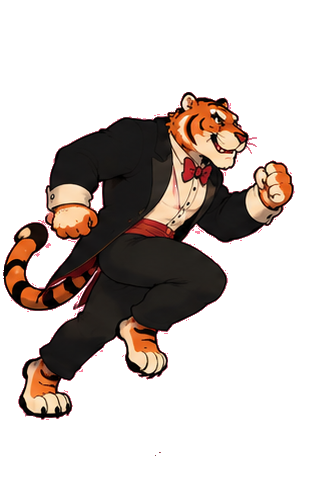
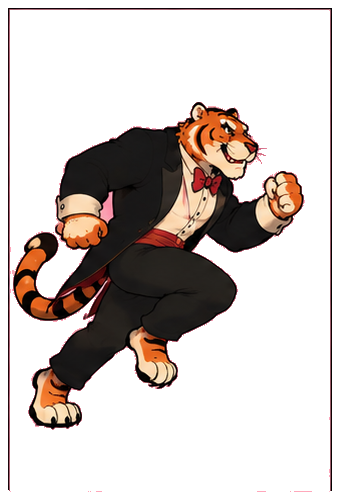
panic-petal: remove baked-in numbers from balthazar sheet 6, re-crop sweep full-width
- paint out digits 1-10 on balthazar_sheet_6.png (pink fill)
- re-crop sweep f1-f10 with full cell width (340x500), no inset
- rebuild viewer

diff --git a/.squid-os/sprite-gen/petal-panic.viewer.html b/.squid-os/sprite-gen/petal-panic.viewer.html
@@ -50,14 +50,14 @@
     </div>
     <div id="bgrow">
       <span>background</span>
-      <input type="color" id="bg" value="#fa93a8">
-      <span id="bgval">#fa93a8</span>
+      <input type="color" id="bg" value="#f992a8">
+      <span id="bgval">#f992a8</span>
     </div>
     <div id="hint">click an entity &middot; &#8593;/&#8595; next/prev animation &middot; &#8722;/&#43; speed &middot; space play/pause &middot; &#8592;/&#8594; step frame (paused)</div>
   </div>
 </div>
 <script>
-const MANIFEST = {"labels": [{"name": "boss", "entities": [{"name": "overgrown_elephant_charge_charge", "frames": ["../../panic-petal/assets/boss/overgrown_elephant_charge_f1.png", "../../panic-petal/assets/boss/overgrown_elephant_charge_f2.png", "../../panic-petal/assets/boss/overgrown_elephant_charge_f3.png", "../../panic-petal/assets/boss/overgrown_elephant_charge_f4.png", "../../panic-petal/assets/boss/overgrown_elephant_charge_f5.png"]}, {"name": "overgrown_elephant_death_death", "frames": ["../../panic-petal/assets/boss/overgrown_elephant_death_f1.png", "../../panic-petal/assets/boss/overgrown_elephant_death_f2.png", "../../panic-petal/assets/boss/overgrown_elephant_death_f3.png", "../../panic-petal/assets/boss/overgrown_elephant_death_f4.png", "../../panic-petal/assets/boss/overgrown_elephant_death_f5.png"]}, {"name": "overgrown_elephant_stomp_stomp", "frames": ["../../panic-petal/assets/boss/overgrown_elephant_stomp_f1.png", "../../panic-petal/assets/boss/overgrown_elephant_stomp_f2.png", "../../panic-petal/assets/boss/overgrown_elephant_stomp_f3.png", "../../panic-petal/assets/boss/overgrown_elephant_stomp_f4.png", "../../panic-petal/assets/boss/overgrown_elephant_stomp_f5.png"]}, {"name": "overgrown_elephant_trunk_blast_trunk_blast", "frames": ["../../panic-petal/assets/boss/overgrown_elephant_trunk_blast_f1.png", "../../panic-petal/assets/boss/overgrown_elephant_trunk_blast_f2.png", "../../panic-petal/assets/boss/overgrown_elephant_trunk_blast_f3.png", "../../panic-petal/assets/boss/overgrown_elephant_trunk_blast_f4.png", "../../panic-petal/assets/boss/overgrown_elephant_trunk_blast_f5.png"]}]}, {"name": "enemies", "entities": [{"name": "boris_loon_attack_attack", "frames": ["../../panic-petal/assets/enemies/boris_loon_attack_f1.png", "../../panic-petal/assets/enemies/boris_loon_attack_f2.png", "../../panic-petal/assets/enemies/boris_loon_attack_f3.png", "../../panic-petal/assets/enemies/boris_loon_attack_f4.png", "../../panic-petal/assets/enemies/boris_loon_attack_f5.png"]}, {"name": "boris_loon_baby_fly_1_fly_1", "frames": ["../../panic-petal/assets/enemies/boris_loon_baby_fly_1_f1.png", "../../panic-petal/assets/enemies/boris_loon_baby_fly_1_f2.png", "../../panic-petal/assets/enemies/boris_loon_baby_fly_1_f3.png", "../../panic-petal/assets/enemies/boris_loon_baby_fly_1_f4.png", "../../panic-petal/assets/enemies/boris_loon_baby_fly_1_f5.png"]}, {"name": "boris_loon_baby_fly_2_fly_2", "frames": ["../../panic-petal/assets/enemies/boris_loon_baby_fly_2_f1.png", "../../panic-petal/assets/enemies/boris_loon_baby_fly_2_f2.png", "../../panic-petal/assets/enemies/boris_loon_baby_fly_2_f3.png", "../../panic-petal/assets/enemies/boris_loon_baby_fly_2_f4.png", "../../panic-petal/assets/enemies/boris_loon_baby_fly_2_f5.png"]}, {"name": "boris_loon_baby_fly_3_fly_3", "frames": ["../../panic-petal/assets/enemies/boris_loon_baby_fly_3_f1.png", "../../panic-petal/assets/enemies/boris_loon_baby_fly_3_f2.png", "../../panic-petal/assets/enemies/boris_loon_baby_fly_3_f3.png", "../../panic-petal/assets/enemies/boris_loon_baby_fly_3_f4.png", "../../panic-petal/assets/enemies/boris_loon_baby_fly_3_f5.png"]}, {"name": "boris_loon_death_death", "frames": ["../../panic-petal/assets/enemies/boris_loon_death_f1.png", "../../panic-petal/assets/enemies/boris_loon_death_f2.png", "../../panic-petal/assets/enemies/boris_loon_death_f3.png", "../../panic-petal/assets/enemies/boris_loon_death_f4.png", "../../panic-petal/assets/enemies/boris_loon_death_f5.png"]}, {"name": "boris_loon_fly_fly", "frames": ["../../panic-petal/assets/enemies/boris_loon_fly_f1.png", "../../panic-petal/assets/enemies/boris_loon_fly_f2.png", "../../panic-petal/assets/enemies/boris_loon_fly_f3.png", "../../panic-petal/assets/enemies/boris_loon_fly_f4.png", "../../panic-petal/assets/enemies/boris_loon_fly_f5.png"]}, {"name": "jackolantern_explode_explode", "frames": ["../../panic-petal/assets/enemies/jackolantern_explode_f1.png", "../../panic-petal/assets/enemies/jackolantern_explode_f2.png", "../../panic-petal/assets/enemies/jackolantern_explode_f3.png", "../../panic-petal/assets/enemies/jackolantern_explode_f4.png", "../../panic-petal/assets/enemies/jackolantern_explode_f5.png"]}, {"name": "jackolantern_launch_launch", "frames": ["../../panic-petal/assets/enemies/jackolantern_launch_f1.png", "../../panic-petal/assets/enemies/jackolantern_launch_f2.png", "../../panic-petal/assets/enemies/jackolantern_launch_f3.png", "../../panic-petal/assets/enemies/jackolantern_launch_f4.png", "../../panic-petal/assets/enemies/jackolantern_launch_f5.png"]}, {"name": "jackolantern_roll_roll", "frames": ["../../panic-petal/assets/enemies/jackolantern_roll_f1.png", "../../panic-petal/assets/enemies/jackolantern_roll_f2.png", "../../panic-petal/assets/enemies/jackolantern_roll_f3.png", "../../panic-petal/assets/enemies/jackolantern_roll_f4.png", "../../panic-petal/assets/enemies/jackolantern_roll_f5.png"]}, {"name": "jester_death_death", "frames": ["../../panic-petal/assets/enemies/jester_death_f1.png", "../../panic-petal/assets/enemies/jester_death_f2.png", "../../panic-petal/assets/enemies/jester_death_f3.png", "../../panic-petal/assets/enemies/jester_death_f4.png", "../../panic-petal/assets/enemies/jester_death_f5.png"]}, {"name": "jester_idle_idle", "frames": ["../../panic-petal/assets/enemies/jester_idle_f1.png", "../../panic-petal/assets/enemies/jester_idle_f2.png", "../../panic-petal/assets/enemies/jester_idle_f3.png", "../../panic-petal/assets/enemies/jester_idle_f4.png", "../../panic-petal/assets/enemies/jester_idle_f5.png"]}, {"name": "jester_jump_jump", "frames": ["../../panic-petal/assets/enemies/jester_jump_f1.png", "../../panic-petal/assets/enemies/jester_jump_f2.png", "../../panic-petal/assets/enemies/jester_jump_f3.png", "../../panic-petal/assets/enemies/jester_jump_f4.png", "../../panic-petal/assets/enemies/jester_jump_f5.png"]}, {"name": "jester_run_run", "frames": ["../../panic-petal/assets/enemies/jester_run_f1.png", "../../panic-petal/assets/enemies/jester_run_f2.png", "../../panic-petal/assets/enemies/jester_run_f3.png", "../../panic-petal/assets/enemies/jester_run_f4.png", "../../panic-petal/assets/enemies/jester_run_f5.png"]}, {"name": "jester_whip_whip", "frames": ["../../panic-petal/assets/enemies/jester_whip_f1.png", "../../panic-petal/assets/enemies/jester_whip_f2.png", "../../panic-petal/assets/enemies/jester_whip_f3.png", "../../panic-petal/assets/enemies/jester_whip_f4.png", "../../panic-petal/assets/enemies/jester_whip_f5.png"]}, {"name": "vine_hound_attack_attack", "frames": ["../../panic-petal/assets/enemies/vine_hound_attack_f1.png", "../../panic-petal/assets/enemies/vine_hound_attack_f2.png", "../../panic-petal/assets/enemies/vine_hound_attack_f3.png", "../../panic-petal/assets/enemies/vine_hound_attack_f4.png", "../../panic-petal/assets/enemies/vine_hound_attack_f5.png"]}, {"name": "vine_hound_death_death", "frames": ["../../panic-petal/assets/enemies/vine_hound_death_f1.png", "../../panic-petal/assets/enemies/vine_hound_death_f2.png", "../../panic-petal/assets/enemies/vine_hound_death_f3.png", "../../panic-petal/assets/enemies/vine_hound_death_f4.png", "../../panic-petal/assets/enemies/vine_hound_death_f5.png"]}, {"name": "vine_hound_run_run", "frames": ["../../panic-petal/assets/enemies/vine_hound_run_f1.png", "../../panic-petal/assets/enemies/vine_hound_run_f2.png", "../../panic-petal/assets/enemies/vine_hound_run_f3.png", "../../panic-petal/assets/enemies/vine_hound_run_f4.png", "../../panic-petal/assets/enemies/vine_hound_run_f5.png"]}, {"name": "violetta_marionetta_attack_attack", "frames": ["../../panic-petal/assets/enemies/violetta_marionetta_attack_f1.png", "../../panic-petal/assets/enemies/violetta_marionetta_attack_f2.png", "../../panic-petal/assets/enemies/violetta_marionetta_attack_f3.png", "../../panic-petal/assets/enemies/violetta_marionetta_attack_f4.png", "../../panic-petal/assets/enemies/violetta_marionetta_attack_f5.png"]}, {"name": "violetta_marionetta_death_death", "frames": ["../../panic-petal/assets/enemies/violetta_marionetta_death_f1.png", "../../panic-petal/assets/enemies/violetta_marionetta_death_f2.png", "../../panic-petal/assets/enemies/violetta_marionetta_death_f3.png", "../../panic-petal/assets/enemies/violetta_marionetta_death_f4.png", "../../panic-petal/assets/enemies/violetta_marionetta_death_f5.png"]}, {"name": "violetta_marionetta_walk_walk", "frames": ["../../panic-petal/assets/enemies/violetta_marionetta_walk_f1.png", "../../panic-petal/assets/enemies/violetta_marionetta_walk_f2.png", "../../panic-petal/assets/enemies/violetta_marionetta_walk_f3.png", "../../panic-petal/assets/enemies/violetta_marionetta_walk_f4.png", "../../panic-petal/assets/enemies/violetta_marionetta_walk_f5.png"]}]}, {"name": "heroes", "entities": [{"name": "balthazar_attack_attack", "frames": ["../../panic-petal/assets/heroes/balthazar_attack_f1.png", "../../panic-petal/assets/heroes/balthazar_attack_f2.png", "../../panic-petal/assets/heroes/balthazar_attack_f3.png", "../../panic-petal/assets/heroes/balthazar_attack_f4.png", "../../panic-petal/assets/heroes/balthazar_attack_f5.png"]}, {"name": "balthazar_crouch", "frames": ["../../panic-petal/assets/heroes/balthazar_crouch_f1.png", "../../panic-petal/assets/heroes/balthazar_crouch_f2.png", "../../panic-petal/assets/heroes/balthazar_crouch_f3.png", "../../panic-petal/assets/heroes/balthazar_crouch_f4.png", "../../panic-petal/assets/heroes/balthazar_crouch_f5.png", "../../panic-petal/assets/heroes/balthazar_crouch_f6.png", "../../panic-petal/assets/heroes/balthazar_crouch_f7.png", "../../panic-petal/assets/heroes/balthazar_crouch_f8.png"]}, {"name": "balthazar_djump", "frames": ["../../panic-petal/assets/heroes/balthazar_djump_f1.png", "../../panic-petal/assets/heroes/balthazar_djump_f2.png", "../../panic-petal/assets/heroes/balthazar_djump_f3.png", "../../panic-petal/assets/heroes/balthazar_djump_f4.png", "../../panic-petal/assets/heroes/balthazar_djump_f5.png", "../../panic-petal/assets/heroes/balthazar_djump_f6.png", "../../panic-petal/assets/heroes/balthazar_djump_f7.png", "../../panic-petal/assets/heroes/balthazar_djump_f8.png"]}, {"name": "balthazar_idle", "frames": ["../../panic-petal/assets/heroes/balthazar_idle_f1.png", "../../panic-petal/assets/heroes/balthazar_idle_f2.png", "../../panic-petal/assets/heroes/balthazar_idle_f3.png", "../../panic-petal/assets/heroes/balthazar_idle_f4.png", "../../panic-petal/assets/heroes/balthazar_idle_f5.png", "../../panic-petal/assets/heroes/balthazar_idle_f6.png", "../../panic-petal/assets/heroes/balthazar_idle_f7.png", "../../panic-petal/assets/heroes/balthazar_idle_f8.png"]}, {"name": "balthazar_jump_jump", "frames": ["../../panic-petal/assets/heroes/balthazar_jump_f1.png", "../../panic-petal/assets/heroes/balthazar_jump_f2.png", "../../panic-petal/assets/heroes/balthazar_jump_f3.png", "../../panic-petal/assets/heroes/balthazar_jump_f4.png", "../../panic-petal/assets/heroes/balthazar_jump_f5.png"]}, {"name": "balthazar_run2", "frames": ["../../panic-petal/assets/heroes/balthazar_run2_f1.png", "../../panic-petal/assets/heroes/balthazar_run2_f2.png", "../../panic-petal/assets/heroes/balthazar_run2_f3.png", "../../panic-petal/assets/heroes/balthazar_run2_f4.png", "../../panic-petal/assets/heroes/balthazar_run2_f5.png", "../../panic-petal/assets/heroes/balthazar_run2_f6.png", "../../panic-petal/assets/heroes/balthazar_run2_f7.png", "../../panic-petal/assets/heroes/balthazar_run2_f8.png"]}, {"name": "balthazar_run_run", "frames": ["../../panic-petal/assets/heroes/balthazar_run_f1.png", "../../panic-petal/assets/heroes/balthazar_run_f2.png", "../../panic-petal/assets/heroes/balthazar_run_f3.png", "../../panic-petal/assets/heroes/balthazar_run_f4.png", "../../panic-petal/assets/heroes/balthazar_run_f5.png"]}, {"name": "scarlet_vale_attack_attack", "frames": ["../../panic-petal/assets/heroes/scarlet_vale_attack_f1.png", "../../panic-petal/assets/heroes/scarlet_vale_attack_f2.png", "../../panic-petal/assets/heroes/scarlet_vale_attack_f3.png", "../../panic-petal/assets/heroes/scarlet_vale_attack_f4.png", "../../panic-petal/assets/heroes/scarlet_vale_attack_f5.png"]}, {"name": "scarlet_vale_crouch", "frames": ["../../panic-petal/assets/heroes/scarlet_vale_crouch_f1.png", "../../panic-petal/assets/heroes/scarlet_vale_crouch_f2.png", "../../panic-petal/assets/heroes/scarlet_vale_crouch_f3.png", "../../panic-petal/assets/heroes/scarlet_vale_crouch_f4.png", "../../panic-petal/assets/heroes/scarlet_vale_crouch_f5.png", "../../panic-petal/assets/heroes/scarlet_vale_crouch_f6.png", "../../panic-petal/assets/heroes/scarlet_vale_crouch_f7.png", "../../panic-petal/assets/heroes/scarlet_vale_crouch_f8.png"]}, {"name": "scarlet_vale_idle", "frames": ["../../panic-petal/assets/heroes/scarlet_vale_idle_f1.png", "../../panic-petal/assets/heroes/scarlet_vale_idle_f2.png", "../../panic-petal/assets/heroes/scarlet_vale_idle_f3.png", "../../panic-petal/assets/heroes/scarlet_vale_idle_f4.png", "../../panic-petal/assets/heroes/scarlet_vale_idle_f5.png", "../../panic-petal/assets/heroes/scarlet_vale_idle_f6.png", "../../panic-petal/assets/heroes/scarlet_vale_idle_f7.png", "../../panic-petal/assets/heroes/scarlet_vale_idle_f8.png"]}, {"name": "scarlet_vale_jump_jump", "frames": ["../../panic-petal/assets/heroes/scarlet_vale_jump_f1.png", "../../panic-petal/assets/heroes/scarlet_vale_jump_f2.png", "../../panic-petal/assets/heroes/scarlet_vale_jump_f3.png", "../../panic-petal/assets/heroes/scarlet_vale_jump_f4.png", "../../panic-petal/assets/heroes/scarlet_vale_jump_f5.png"]}, {"name": "scarlet_vale_run_run", "frames": ["../../panic-petal/assets/heroes/scarlet_vale_run_f1.png", "../../panic-petal/assets/heroes/scarlet_vale_run_f2.png", "../../panic-petal/assets/heroes/scarlet_vale_run_f3.png", "../../panic-petal/assets/heroes/scarlet_vale_run_f4.png", "../../panic-petal/assets/heroes/scarlet_vale_run_f5.png"]}]}, {"name": "home", "entities": [{"name": "home_bigtop_idle", "frames": ["../../panic-petal/assets/home/home_bigtop_f1.png"]}, {"name": "home_cover_idle_idle", "frames": ["../../panic-petal/assets/home/home_cover_idle_f1.png"]}, {"name": "home_crowd_idle", "frames": ["../../panic-petal/assets/home/home_crowd_f1.png"]}, {"name": "home_scarlet_portrait_idle", "frames": ["../../panic-petal/assets/home/home_scarlet_portrait_f1.png"]}, {"name": "home_stage_idle", "frames": ["../../panic-petal/assets/home/home_stage_f1.png"]}, {"name": "squid_os_logo_idle", "frames": ["../../panic-petal/assets/home/squid_os_logo_f1.png"]}]}, {"name": "interface", "entities": [{"name": "bg_level1_foreground_idle", "frames": ["../../panic-petal/assets/interface/bg_level1_foreground.png"]}, {"name": "bg_level1_tent_idle", "frames": ["../../panic-petal/assets/interface/bg_level1_tent.png"]}, {"name": "logo_idle", "frames": ["../../panic-petal/assets/interface/logo_f1.png"]}, {"name": "select_balthazar_idle", "frames": ["../../panic-petal/assets/interface/select_balthazar_f1.png"]}, {"name": "select_none_idle", "frames": ["../../panic-petal/assets/interface/select_none_f1.png"]}, {"name": "select_scarlet_vale_idle", "frames": ["../../panic-petal/assets/interface/select_scarlet_vale_f1.png"]}]}, {"name": "objects", "entities": [{"name": "barrel_bomb_idle", "frames": ["../../panic-petal/assets/objects/barrel_bomb.png"]}, {"name": "barrel_coin_idle", "frames": ["../../panic-petal/assets/objects/barrel_coin.png"]}, {"name": "barrel_idle", "frames": ["../../panic-petal/assets/objects/barrel.png"]}, {"name": "checkpoint_idle", "frames": ["../../panic-petal/assets/objects/checkpoint.png"]}, {"name": "coin_bronze_flip", "frames": ["../../panic-petal/assets/objects/coin_bronze_f1.png", "../../panic-petal/assets/objects/coin_bronze_f2.png", "../../panic-petal/assets/objects/coin_bronze_f3.png", "../../panic-petal/assets/objects/coin_bronze_f4.png"]}, {"name": "coin_gold_flip_3", "frames": ["../../panic-petal/assets/objects/coin_gold_f1.png", "../../panic-petal/assets/objects/coin_gold_f2.png", "../../panic-petal/assets/objects/coin_gold_f3.png", "../../panic-petal/assets/objects/coin_gold_f4.png"]}, {"name": "coin_silver_flip_2", "frames": ["../../panic-petal/assets/objects/coin_silver_f1.png", "../../panic-petal/assets/objects/coin_silver_f2.png", "../../panic-petal/assets/objects/coin_silver_f3.png", "../../panic-petal/assets/objects/coin_silver_f4.png"]}]}, {"name": "powerups", "entities": [{"name": "balthazar_1up_idle", "frames": ["../../panic-petal/assets/powerups/balthazar_1up_f1.png", "../../panic-petal/assets/powerups/balthazar_1up_f2.png", "../../panic-petal/assets/powerups/balthazar_1up_f3.png", "../../panic-petal/assets/powerups/balthazar_1up_f4.png"]}, {"name": "bomb_idle", "frames": ["../../panic-petal/assets/powerups/bomb_f1.png", "../../panic-petal/assets/powerups/bomb_f2.png", "../../panic-petal/assets/powerups/bomb_f3.png", "../../panic-petal/assets/powerups/bomb_f4.png"]}, {"name": "energy_idle", "frames": ["../../panic-petal/assets/powerups/energy_f1.png", "../../panic-petal/assets/powerups/energy_f2.png", "../../panic-petal/assets/powerups/energy_f3.png", "../../panic-petal/assets/powerups/energy_f4.png"]}, {"name": "invincibility_idle", "frames": ["../../panic-petal/assets/powerups/invincibility_f1.png", "../../panic-petal/assets/powerups/invincibility_f2.png", "../../panic-petal/assets/powerups/invincibility_f3.png", "../../panic-petal/assets/powerups/invincibility_f4.png"]}, {"name": "panic_clear_idle", "frames": ["../../panic-petal/assets/powerups/panic_clear_f1.png", "../../panic-petal/assets/powerups/panic_clear_f2.png", "../../panic-petal/assets/powerups/panic_clear_f3.png", "../../panic-petal/assets/powerups/panic_clear_f4.png"]}, {"name": "petal_saw_idle", "frames": ["../../panic-petal/assets/powerups/petal_saw_f1.png", "../../panic-petal/assets/powerups/petal_saw_f2.png", "../../panic-petal/assets/powerups/petal_saw_f3.png", "../../panic-petal/assets/powerups/petal_saw_f4.png"]}, {"name": "rapid_fire_idle", "frames": ["../../panic-petal/assets/powerups/rapid_fire_f1.png", "../../panic-petal/assets/powerups/rapid_fire_f2.png", "../../panic-petal/assets/powerups/rapid_fire_f3.png", "../../panic-petal/assets/powerups/rapid_fire_f4.png"]}, {"name": "scarlet_1up_idle", "frames": ["../../panic-petal/assets/powerups/scarlet_1up_f1.png", "../../panic-petal/assets/powerups/scarlet_1up_f2.png", "../../panic-petal/assets/powerups/scarlet_1up_f3.png", "../../panic-petal/assets/powerups/scarlet_1up_f4.png"]}, {"name": "shield_idle", "frames": ["../../panic-petal/assets/powerups/shield_f1.png", "../../panic-petal/assets/powerups/shield_f2.png", "../../panic-petal/assets/powerups/shield_f3.png", "../../panic-petal/assets/powerups/shield_f4.png"]}, {"name": "thorn_missile_idle", "frames": ["../../panic-petal/assets/powerups/thorn_missile_f1.png", "../../panic-petal/assets/powerups/thorn_missile_f2.png", "../../panic-petal/assets/powerups/thorn_missile_f3.png", "../../panic-petal/assets/powerups/thorn_missile_f4.png"]}]}, {"name": "projectiles", "entities": [{"name": "bomb_shoot", "frames": ["../../panic-petal/assets/projectiles/bomb_shoot_f1.png", "../../panic-petal/assets/projectiles/bomb_shoot_f2.png", "../../panic-petal/assets/projectiles/bomb_shoot_f3.png", "../../panic-petal/assets/projectiles/bomb_shoot_f4.png"]}, {"name": "boom_explose", "frames": ["../../panic-petal/assets/projectiles/boom_explose_f1.png", "../../panic-petal/assets/projectiles/boom_explose_f2.png", "../../panic-petal/assets/projectiles/boom_explose_f3.png", "../../panic-petal/assets/projectiles/boom_explose_f4.png"]}, {"name": "saw_shoot", "frames": ["../../panic-petal/assets/projectiles/saw_shoot_f1.png", "../../panic-petal/assets/projectiles/saw_shoot_f2.png", "../../panic-petal/assets/projectiles/saw_shoot_f3.png", "../../panic-petal/assets/projectiles/saw_shoot_f4.png", "../../panic-petal/assets/projectiles/saw_shoot_f5.png", "../../panic-petal/assets/projectiles/saw_shoot_f6.png", "../../panic-petal/assets/projectiles/saw_shoot_f7.png", "../../panic-petal/assets/projectiles/saw_shoot_f8.png"]}, {"name": "thorn_shoot", "frames": ["../../panic-petal/assets/projectiles/thorn_shoot_f1.png", "../../panic-petal/assets/projectiles/thorn_shoot_f2.png", "../../panic-petal/assets/projectiles/thorn_shoot_f3.png", "../../panic-petal/assets/projectiles/thorn_shoot_f4.png", "../../panic-petal/assets/projectiles/thorn_shoot_f5.png", "../../panic-petal/assets/projectiles/thorn_shoot_f6.png", "../../panic-petal/assets/projectiles/thorn_shoot_f7.png", "../../panic-petal/assets/projectiles/thorn_shoot_f8.png"]}]}]};   // {labels:[{name, entities:[{name, frames:["path",...]}]}], bg:"#hex"}
+const MANIFEST = {"labels": [{"name": "boss", "entities": [{"name": "overgrown_elephant_charge_charge", "frames": ["../../panic-petal/assets/boss/overgrown_elephant_charge_f1.png", "../../panic-petal/assets/boss/overgrown_elephant_charge_f2.png", "../../panic-petal/assets/boss/overgrown_elephant_charge_f3.png", "../../panic-petal/assets/boss/overgrown_elephant_charge_f4.png", "../../panic-petal/assets/boss/overgrown_elephant_charge_f5.png"]}, {"name": "overgrown_elephant_death_death", "frames": ["../../panic-petal/assets/boss/overgrown_elephant_death_f1.png", "../../panic-petal/assets/boss/overgrown_elephant_death_f2.png", "../../panic-petal/assets/boss/overgrown_elephant_death_f3.png", "../../panic-petal/assets/boss/overgrown_elephant_death_f4.png", "../../panic-petal/assets/boss/overgrown_elephant_death_f5.png"]}, {"name": "overgrown_elephant_stomp_stomp", "frames": ["../../panic-petal/assets/boss/overgrown_elephant_stomp_f1.png", "../../panic-petal/assets/boss/overgrown_elephant_stomp_f2.png", "../../panic-petal/assets/boss/overgrown_elephant_stomp_f3.png", "../../panic-petal/assets/boss/overgrown_elephant_stomp_f4.png", "../../panic-petal/assets/boss/overgrown_elephant_stomp_f5.png"]}, {"name": "overgrown_elephant_trunk_blast_trunk_blast", "frames": ["../../panic-petal/assets/boss/overgrown_elephant_trunk_blast_f1.png", "../../panic-petal/assets/boss/overgrown_elephant_trunk_blast_f2.png", "../../panic-petal/assets/boss/overgrown_elephant_trunk_blast_f3.png", "../../panic-petal/assets/boss/overgrown_elephant_trunk_blast_f4.png", "../../panic-petal/assets/boss/overgrown_elephant_trunk_blast_f5.png"]}]}, {"name": "enemies", "entities": [{"name": "boris_loon_attack_attack", "frames": ["../../panic-petal/assets/enemies/boris_loon_attack_f1.png", "../../panic-petal/assets/enemies/boris_loon_attack_f2.png", "../../panic-petal/assets/enemies/boris_loon_attack_f3.png", "../../panic-petal/assets/enemies/boris_loon_attack_f4.png", "../../panic-petal/assets/enemies/boris_loon_attack_f5.png"]}, {"name": "boris_loon_baby_fly_1_fly_1", "frames": ["../../panic-petal/assets/enemies/boris_loon_baby_fly_1_f1.png", "../../panic-petal/assets/enemies/boris_loon_baby_fly_1_f2.png", "../../panic-petal/assets/enemies/boris_loon_baby_fly_1_f3.png", "../../panic-petal/assets/enemies/boris_loon_baby_fly_1_f4.png", "../../panic-petal/assets/enemies/boris_loon_baby_fly_1_f5.png"]}, {"name": "boris_loon_baby_fly_2_fly_2", "frames": ["../../panic-petal/assets/enemies/boris_loon_baby_fly_2_f1.png", "../../panic-petal/assets/enemies/boris_loon_baby_fly_2_f2.png", "../../panic-petal/assets/enemies/boris_loon_baby_fly_2_f3.png", "../../panic-petal/assets/enemies/boris_loon_baby_fly_2_f4.png", "../../panic-petal/assets/enemies/boris_loon_baby_fly_2_f5.png"]}, {"name": "boris_loon_baby_fly_3_fly_3", "frames": ["../../panic-petal/assets/enemies/boris_loon_baby_fly_3_f1.png", "../../panic-petal/assets/enemies/boris_loon_baby_fly_3_f2.png", "../../panic-petal/assets/enemies/boris_loon_baby_fly_3_f3.png", "../../panic-petal/assets/enemies/boris_loon_baby_fly_3_f4.png", "../../panic-petal/assets/enemies/boris_loon_baby_fly_3_f5.png"]}, {"name": "boris_loon_death_death", "frames": ["../../panic-petal/assets/enemies/boris_loon_death_f1.png", "../../panic-petal/assets/enemies/boris_loon_death_f2.png", "../../panic-petal/assets/enemies/boris_loon_death_f3.png", "../../panic-petal/assets/enemies/boris_loon_death_f4.png", "../../panic-petal/assets/enemies/boris_loon_death_f5.png"]}, {"name": "boris_loon_fly_fly", "frames": ["../../panic-petal/assets/enemies/boris_loon_fly_f1.png", "../../panic-petal/assets/enemies/boris_loon_fly_f2.png", "../../panic-petal/assets/enemies/boris_loon_fly_f3.png", "../../panic-petal/assets/enemies/boris_loon_fly_f4.png", "../../panic-petal/assets/enemies/boris_loon_fly_f5.png"]}, {"name": "jackolantern_explode_explode", "frames": ["../../panic-petal/assets/enemies/jackolantern_explode_f1.png", "../../panic-petal/assets/enemies/jackolantern_explode_f2.png", "../../panic-petal/assets/enemies/jackolantern_explode_f3.png", "../../panic-petal/assets/enemies/jackolantern_explode_f4.png", "../../panic-petal/assets/enemies/jackolantern_explode_f5.png"]}, {"name": "jackolantern_launch_launch", "frames": ["../../panic-petal/assets/enemies/jackolantern_launch_f1.png", "../../panic-petal/assets/enemies/jackolantern_launch_f2.png", "../../panic-petal/assets/enemies/jackolantern_launch_f3.png", "../../panic-petal/assets/enemies/jackolantern_launch_f4.png", "../../panic-petal/assets/enemies/jackolantern_launch_f5.png"]}, {"name": "jackolantern_roll_roll", "frames": ["../../panic-petal/assets/enemies/jackolantern_roll_f1.png", "../../panic-petal/assets/enemies/jackolantern_roll_f2.png", "../../panic-petal/assets/enemies/jackolantern_roll_f3.png", "../../panic-petal/assets/enemies/jackolantern_roll_f4.png", "../../panic-petal/assets/enemies/jackolantern_roll_f5.png"]}, {"name": "jester_death_death", "frames": ["../../panic-petal/assets/enemies/jester_death_f1.png", "../../panic-petal/assets/enemies/jester_death_f2.png", "../../panic-petal/assets/enemies/jester_death_f3.png", "../../panic-petal/assets/enemies/jester_death_f4.png", "../../panic-petal/assets/enemies/jester_death_f5.png"]}, {"name": "jester_idle_idle", "frames": ["../../panic-petal/assets/enemies/jester_idle_f1.png", "../../panic-petal/assets/enemies/jester_idle_f2.png", "../../panic-petal/assets/enemies/jester_idle_f3.png", "../../panic-petal/assets/enemies/jester_idle_f4.png", "../../panic-petal/assets/enemies/jester_idle_f5.png"]}, {"name": "jester_jump_jump", "frames": ["../../panic-petal/assets/enemies/jester_jump_f1.png", "../../panic-petal/assets/enemies/jester_jump_f2.png", "../../panic-petal/assets/enemies/jester_jump_f3.png", "../../panic-petal/assets/enemies/jester_jump_f4.png", "../../panic-petal/assets/enemies/jester_jump_f5.png"]}, {"name": "jester_run_run", "frames": ["../../panic-petal/assets/enemies/jester_run_f1.png", "../../panic-petal/assets/enemies/jester_run_f2.png", "../../panic-petal/assets/enemies/jester_run_f3.png", "../../panic-petal/assets/enemies/jester_run_f4.png", "../../panic-petal/assets/enemies/jester_run_f5.png"]}, {"name": "jester_whip_whip", "frames": ["../../panic-petal/assets/enemies/jester_whip_f1.png", "../../panic-petal/assets/enemies/jester_whip_f2.png", "../../panic-petal/assets/enemies/jester_whip_f3.png", "../../panic-petal/assets/enemies/jester_whip_f4.png", "../../panic-petal/assets/enemies/jester_whip_f5.png"]}, {"name": "vine_hound_attack_attack", "frames": ["../../panic-petal/assets/enemies/vine_hound_attack_f1.png", "../../panic-petal/assets/enemies/vine_hound_attack_f2.png", "../../panic-petal/assets/enemies/vine_hound_attack_f3.png", "../../panic-petal/assets/enemies/vine_hound_attack_f4.png", "../../panic-petal/assets/enemies/vine_hound_attack_f5.png"]}, {"name": "vine_hound_death_death", "frames": ["../../panic-petal/assets/enemies/vine_hound_death_f1.png", "../../panic-petal/assets/enemies/vine_hound_death_f2.png", "../../panic-petal/assets/enemies/vine_hound_death_f3.png", "../../panic-petal/assets/enemies/vine_hound_death_f4.png", "../../panic-petal/assets/enemies/vine_hound_death_f5.png"]}, {"name": "vine_hound_run_run", "frames": ["../../panic-petal/assets/enemies/vine_hound_run_f1.png", "../../panic-petal/assets/enemies/vine_hound_run_f2.png", "../../panic-petal/assets/enemies/vine_hound_run_f3.png", "../../panic-petal/assets/enemies/vine_hound_run_f4.png", "../../panic-petal/assets/enemies/vine_hound_run_f5.png"]}, {"name": "violetta_marionetta_attack_attack", "frames": ["../../panic-petal/assets/enemies/violetta_marionetta_attack_f1.png", "../../panic-petal/assets/enemies/violetta_marionetta_attack_f2.png", "../../panic-petal/assets/enemies/violetta_marionetta_attack_f3.png", "../../panic-petal/assets/enemies/violetta_marionetta_attack_f4.png", "../../panic-petal/assets/enemies/violetta_marionetta_attack_f5.png"]}, {"name": "violetta_marionetta_death_death", "frames": ["../../panic-petal/assets/enemies/violetta_marionetta_death_f1.png", "../../panic-petal/assets/enemies/violetta_marionetta_death_f2.png", "../../panic-petal/assets/enemies/violetta_marionetta_death_f3.png", "../../panic-petal/assets/enemies/violetta_marionetta_death_f4.png", "../../panic-petal/assets/enemies/violetta_marionetta_death_f5.png"]}, {"name": "violetta_marionetta_walk_walk", "frames": ["../../panic-petal/assets/enemies/violetta_marionetta_walk_f1.png", "../../panic-petal/assets/enemies/violetta_marionetta_walk_f2.png", "../../panic-petal/assets/enemies/violetta_marionetta_walk_f3.png", "../../panic-petal/assets/enemies/violetta_marionetta_walk_f4.png", "../../panic-petal/assets/enemies/violetta_marionetta_walk_f5.png"]}]}, {"name": "heroes", "entities": [{"name": "balthazar_attack_attack", "frames": ["../../panic-petal/assets/heroes/balthazar_attack_f1.png", "../../panic-petal/assets/heroes/balthazar_attack_f2.png", "../../panic-petal/assets/heroes/balthazar_attack_f3.png", "../../panic-petal/assets/heroes/balthazar_attack_f4.png", "../../panic-petal/assets/heroes/balthazar_attack_f5.png"]}, {"name": "balthazar_crouch", "frames": ["../../panic-petal/assets/heroes/balthazar_crouch_f1.png", "../../panic-petal/assets/heroes/balthazar_crouch_f2.png", "../../panic-petal/assets/heroes/balthazar_crouch_f3.png", "../../panic-petal/assets/heroes/balthazar_crouch_f4.png", "../../panic-petal/assets/heroes/balthazar_crouch_f5.png", "../../panic-petal/assets/heroes/balthazar_crouch_f6.png", "../../panic-petal/assets/heroes/balthazar_crouch_f7.png", "../../panic-petal/assets/heroes/balthazar_crouch_f8.png"]}, {"name": "balthazar_djump", "frames": ["../../panic-petal/assets/heroes/balthazar_djump_f1.png", "../../panic-petal/assets/heroes/balthazar_djump_f2.png", "../../panic-petal/assets/heroes/balthazar_djump_f3.png", "../../panic-petal/assets/heroes/balthazar_djump_f4.png", "../../panic-petal/assets/heroes/balthazar_djump_f5.png", "../../panic-petal/assets/heroes/balthazar_djump_f6.png", "../../panic-petal/assets/heroes/balthazar_djump_f7.png", "../../panic-petal/assets/heroes/balthazar_djump_f8.png"]}, {"name": "balthazar_idle", "frames": ["../../panic-petal/assets/heroes/balthazar_idle_f1.png", "../../panic-petal/assets/heroes/balthazar_idle_f2.png", "../../panic-petal/assets/heroes/balthazar_idle_f3.png", "../../panic-petal/assets/heroes/balthazar_idle_f4.png", "../../panic-petal/assets/heroes/balthazar_idle_f5.png", "../../panic-petal/assets/heroes/balthazar_idle_f6.png", "../../panic-petal/assets/heroes/balthazar_idle_f7.png", "../../panic-petal/assets/heroes/balthazar_idle_f8.png"]}, {"name": "balthazar_jump_jump", "frames": ["../../panic-petal/assets/heroes/balthazar_jump_f1.png", "../../panic-petal/assets/heroes/balthazar_jump_f2.png", "../../panic-petal/assets/heroes/balthazar_jump_f3.png", "../../panic-petal/assets/heroes/balthazar_jump_f4.png", "../../panic-petal/assets/heroes/balthazar_jump_f5.png"]}, {"name": "balthazar_run2", "frames": ["../../panic-petal/assets/heroes/balthazar_run2_f1.png", "../../panic-petal/assets/heroes/balthazar_run2_f2.png", "../../panic-petal/assets/heroes/balthazar_run2_f3.png", "../../panic-petal/assets/heroes/balthazar_run2_f4.png", "../../panic-petal/assets/heroes/balthazar_run2_f5.png", "../../panic-petal/assets/heroes/balthazar_run2_f6.png", "../../panic-petal/assets/heroes/balthazar_run2_f7.png", "../../panic-petal/assets/heroes/balthazar_run2_f8.png"]}, {"name": "balthazar_run_run", "frames": ["../../panic-petal/assets/heroes/balthazar_run_f1.png", "../../panic-petal/assets/heroes/balthazar_run_f2.png", "../../panic-petal/assets/heroes/balthazar_run_f3.png", "../../panic-petal/assets/heroes/balthazar_run_f4.png", "../../panic-petal/assets/heroes/balthazar_run_f5.png"]}, {"name": "balthazar_sweep", "frames": ["../../panic-petal/assets/heroes/balthazar_sweep_f1.png", "../../panic-petal/assets/heroes/balthazar_sweep_f2.png", "../../panic-petal/assets/heroes/balthazar_sweep_f3.png", "../../panic-petal/assets/heroes/balthazar_sweep_f4.png", "../../panic-petal/assets/heroes/balthazar_sweep_f5.png", "../../panic-petal/assets/heroes/balthazar_sweep_f6.png", "../../panic-petal/assets/heroes/balthazar_sweep_f7.png", "../../panic-petal/assets/heroes/balthazar_sweep_f8.png", "../../panic-petal/assets/heroes/balthazar_sweep_f9.png", "../../panic-petal/assets/heroes/balthazar_sweep_f10.png"]}, {"name": "scarlet_vale_attack_attack", "frames": ["../../panic-petal/assets/heroes/scarlet_vale_attack_f1.png", "../../panic-petal/assets/heroes/scarlet_vale_attack_f2.png", "../../panic-petal/assets/heroes/scarlet_vale_attack_f3.png", "../../panic-petal/assets/heroes/scarlet_vale_attack_f4.png", "../../panic-petal/assets/heroes/scarlet_vale_attack_f5.png"]}, {"name": "scarlet_vale_crouch", "frames": ["../../panic-petal/assets/heroes/scarlet_vale_crouch_f1.png", "../../panic-petal/assets/heroes/scarlet_vale_crouch_f2.png", "../../panic-petal/assets/heroes/scarlet_vale_crouch_f3.png", "../../panic-petal/assets/heroes/scarlet_vale_crouch_f4.png", "../../panic-petal/assets/heroes/scarlet_vale_crouch_f5.png", "../../panic-petal/assets/heroes/scarlet_vale_crouch_f6.png", "../../panic-petal/assets/heroes/scarlet_vale_crouch_f7.png", "../../panic-petal/assets/heroes/scarlet_vale_crouch_f8.png"]}, {"name": "scarlet_vale_djump_djump", "frames": ["../../panic-petal/assets/heroes/scarlet_vale_djump_f1.png", "../../panic-petal/assets/heroes/scarlet_vale_djump_f2.png", "../../panic-petal/assets/heroes/scarlet_vale_djump_f3.png", "../../panic-petal/assets/heroes/scarlet_vale_djump_f4.png", "../../panic-petal/assets/heroes/scarlet_vale_djump_f5.png", "../../panic-petal/assets/heroes/scarlet_vale_djump_f6.png", "../../panic-petal/assets/heroes/scarlet_vale_djump_f7.png", "../../panic-petal/assets/heroes/scarlet_vale_djump_f8.png"]}, {"name": "scarlet_vale_idle", "frames": ["../../panic-petal/assets/heroes/scarlet_vale_idle_f1.png", "../../panic-petal/assets/heroes/scarlet_vale_idle_f2.png", "../../panic-petal/assets/heroes/scarlet_vale_idle_f3.png", "../../panic-petal/assets/heroes/scarlet_vale_idle_f4.png", "../../panic-petal/assets/heroes/scarlet_vale_idle_f5.png", "../../panic-petal/assets/heroes/scarlet_vale_idle_f6.png", "../../panic-petal/assets/heroes/scarlet_vale_idle_f7.png", "../../panic-petal/assets/heroes/scarlet_vale_idle_f8.png"]}, {"name": "scarlet_vale_jump_jump", "frames": ["../../panic-petal/assets/heroes/scarlet_vale_jump_f1.png", "../../panic-petal/assets/heroes/scarlet_vale_jump_f2.png", "../../panic-petal/assets/heroes/scarlet_vale_jump_f3.png", "../../panic-petal/assets/heroes/scarlet_vale_jump_f4.png", "../../panic-petal/assets/heroes/scarlet_vale_jump_f5.png"]}, {"name": "scarlet_vale_run2_run2", "frames": ["../../panic-petal/assets/heroes/scarlet_vale_run2_f1.png", "../../panic-petal/assets/heroes/scarlet_vale_run2_f2.png", "../../panic-petal/assets/heroes/scarlet_vale_run2_f3.png", "../../panic-petal/assets/heroes/scarlet_vale_run2_f4.png", "../../panic-petal/assets/heroes/scarlet_vale_run2_f5.png", "../../panic-petal/assets/heroes/scarlet_vale_run2_f6.png", "../../panic-petal/assets/heroes/scarlet_vale_run2_f7.png", "../../panic-petal/assets/heroes/scarlet_vale_run2_f8.png"]}, {"name": "scarlet_vale_run_run", "frames": ["../../panic-petal/assets/heroes/scarlet_vale_run_f1.png", "../../panic-petal/assets/heroes/scarlet_vale_run_f2.png", "../../panic-petal/assets/heroes/scarlet_vale_run_f3.png", "../../panic-petal/assets/heroes/scarlet_vale_run_f4.png", "../../panic-petal/assets/heroes/scarlet_vale_run_f5.png"]}]}, {"name": "home", "entities": [{"name": "home_bigtop_idle", "frames": ["../../panic-petal/assets/home/home_bigtop_f1.png"]}, {"name": "home_cover_idle_idle", "frames": ["../../panic-petal/assets/home/home_cover_idle_f1.png"]}, {"name": "home_crowd_idle", "frames": ["../../panic-petal/assets/home/home_crowd_f1.png"]}, {"name": "home_scarlet_portrait_idle", "frames": ["../../panic-petal/assets/home/home_scarlet_portrait_f1.png"]}, {"name": "home_stage_idle", "frames": ["../../panic-petal/assets/home/home_stage_f1.png"]}, {"name": "squid_os_logo_idle", "frames": ["../../panic-petal/assets/home/squid_os_logo_f1.png"]}]}, {"name": "interface", "entities": [{"name": "bg_level1_foreground_idle", "frames": ["../../panic-petal/assets/interface/bg_level1_foreground.png"]}, {"name": "bg_level1_tent_idle", "frames": ["../../panic-petal/assets/interface/bg_level1_tent.png"]}, {"name": "logo_idle", "frames": ["../../panic-petal/assets/interface/logo_f1.png"]}, {"name": "select_balthazar_idle", "frames": ["../../panic-petal/assets/interface/select_balthazar_f1.png"]}, {"name": "select_none_idle", "frames": ["../../panic-petal/assets/interface/select_none_f1.png"]}, {"name": "select_scarlet_vale_idle", "frames": ["../../panic-petal/assets/interface/select_scarlet_vale_f1.png"]}]}, {"name": "objects", "entities": [{"name": "barrel_bomb_idle", "frames": ["../../panic-petal/assets/objects/barrel_bomb.png"]}, {"name": "barrel_coin_idle", "frames": ["../../panic-petal/assets/objects/barrel_coin.png"]}, {"name": "barrel_idle", "frames": ["../../panic-petal/assets/objects/barrel.png"]}, {"name": "checkpoint_idle", "frames": ["../../panic-petal/assets/objects/checkpoint.png"]}, {"name": "coin_bronze_flip", "frames": ["../../panic-petal/assets/objects/coin_bronze_f1.png", "../../panic-petal/assets/objects/coin_bronze_f2.png", "../../panic-petal/assets/objects/coin_bronze_f3.png", "../../panic-petal/assets/objects/coin_bronze_f4.png"]}, {"name": "coin_gold_flip_3", "frames": ["../../panic-petal/assets/objects/coin_gold_f1.png", "../../panic-petal/assets/objects/coin_gold_f2.png", "../../panic-petal/assets/objects/coin_gold_f3.png", "../../panic-petal/assets/objects/coin_gold_f4.png"]}, {"name": "coin_silver_flip_2", "frames": ["../../panic-petal/assets/objects/coin_silver_f1.png", "../../panic-petal/assets/objects/coin_silver_f2.png", "../../panic-petal/assets/objects/coin_silver_f3.png", "../../panic-petal/assets/objects/coin_silver_f4.png"]}]}, {"name": "powerups", "entities": [{"name": "balthazar_1up_idle", "frames": ["../../panic-petal/assets/powerups/balthazar_1up_f1.png", "../../panic-petal/assets/powerups/balthazar_1up_f2.png", "../../panic-petal/assets/powerups/balthazar_1up_f3.png", "../../panic-petal/assets/powerups/balthazar_1up_f4.png"]}, {"name": "bomb_idle", "frames": ["../../panic-petal/assets/powerups/bomb_f1.png", "../../panic-petal/assets/powerups/bomb_f2.png", "../../panic-petal/assets/powerups/bomb_f3.png", "../../panic-petal/assets/powerups/bomb_f4.png"]}, {"name": "energy_idle", "frames": ["../../panic-petal/assets/powerups/energy_f1.png", "../../panic-petal/assets/powerups/energy_f2.png", "../../panic-petal/assets/powerups/energy_f3.png", "../../panic-petal/assets/powerups/energy_f4.png"]}, {"name": "invincibility_idle", "frames": ["../../panic-petal/assets/powerups/invincibility_f1.png", "../../panic-petal/assets/powerups/invincibility_f2.png", "../../panic-petal/assets/powerups/invincibility_f3.png", "../../panic-petal/assets/powerups/invincibility_f4.png"]}, {"name": "panic_clear_idle", "frames": ["../../panic-petal/assets/powerups/panic_clear_f1.png", "../../panic-petal/assets/powerups/panic_clear_f2.png", "../../panic-petal/assets/powerups/panic_clear_f3.png", "../../panic-petal/assets/powerups/panic_clear_f4.png"]}, {"name": "petal_saw_idle", "frames": ["../../panic-petal/assets/powerups/petal_saw_f1.png", "../../panic-petal/assets/powerups/petal_saw_f2.png", "../../panic-petal/assets/powerups/petal_saw_f3.png", "../../panic-petal/assets/powerups/petal_saw_f4.png"]}, {"name": "rapid_fire_idle", "frames": ["../../panic-petal/assets/powerups/rapid_fire_f1.png", "../../panic-petal/assets/powerups/rapid_fire_f2.png", "../../panic-petal/assets/powerups/rapid_fire_f3.png", "../../panic-petal/assets/powerups/rapid_fire_f4.png"]}, {"name": "scarlet_1up_idle", "frames": ["../../panic-petal/assets/powerups/scarlet_1up_f1.png", "../../panic-petal/assets/powerups/scarlet_1up_f2.png", "../../panic-petal/assets/powerups/scarlet_1up_f3.png", "../../panic-petal/assets/powerups/scarlet_1up_f4.png"]}, {"name": "shield_idle", "frames": ["../../panic-petal/assets/powerups/shield_f1.png", "../../panic-petal/assets/powerups/shield_f2.png", "../../panic-petal/assets/powerups/shield_f3.png", "../../panic-petal/assets/powerups/shield_f4.png"]}, {"name": "thorn_missile_idle", "frames": ["../../panic-petal/assets/powerups/thorn_missile_f1.png", "../../panic-petal/assets/powerups/thorn_missile_f2.png", "../../panic-petal/assets/powerups/thorn_missile_f3.png", "../../panic-petal/assets/powerups/thorn_missile_f4.png"]}]}, {"name": "projectiles", "entities": [{"name": "bomb_shoot", "frames": ["../../panic-petal/assets/projectiles/bomb_shoot_f1.png", "../../panic-petal/assets/projectiles/bomb_shoot_f2.png", "../../panic-petal/assets/projectiles/bomb_shoot_f3.png", "../../panic-petal/assets/projectiles/bomb_shoot_f4.png"]}, {"name": "boom_explose", "frames": ["../../panic-petal/assets/projectiles/boom_explose_f1.png", "../../panic-petal/assets/projectiles/boom_explose_f2.png", "../../panic-petal/assets/projectiles/boom_explose_f3.png", "../../panic-petal/assets/projectiles/boom_explose_f4.png"]}, {"name": "saw_shoot", "frames": ["../../panic-petal/assets/projectiles/saw_shoot_f1.png", "../../panic-petal/assets/projectiles/saw_shoot_f2.png", "../../panic-petal/assets/projectiles/saw_shoot_f3.png", "../../panic-petal/assets/projectiles/saw_shoot_f4.png", "../../panic-petal/assets/projectiles/saw_shoot_f5.png", "../../panic-petal/assets/projectiles/saw_shoot_f6.png", "../../panic-petal/assets/projectiles/saw_shoot_f7.png", "../../panic-petal/assets/projectiles/saw_shoot_f8.png"]}, {"name": "thorn_shoot", "frames": ["../../panic-petal/assets/projectiles/thorn_shoot_f1.png", "../../panic-petal/assets/projectiles/thorn_shoot_f2.png", "../../panic-petal/assets/projectiles/thorn_shoot_f3.png", "../../panic-petal/assets/projectiles/thorn_shoot_f4.png", "../../panic-petal/assets/projectiles/thorn_shoot_f5.png", "../../panic-petal/assets/projectiles/thorn_shoot_f6.png", "../../panic-petal/assets/projectiles/thorn_shoot_f7.png", "../../panic-petal/assets/projectiles/thorn_shoot_f8.png"]}]}]};   // {labels:[{name, entities:[{name, frames:["path",...]}]}], bg:"#hex"}
 const cv = document.getElementById('cv');
 const ctx = cv.getContext('2d');
 ctx.imageSmoothingEnabled = false;
